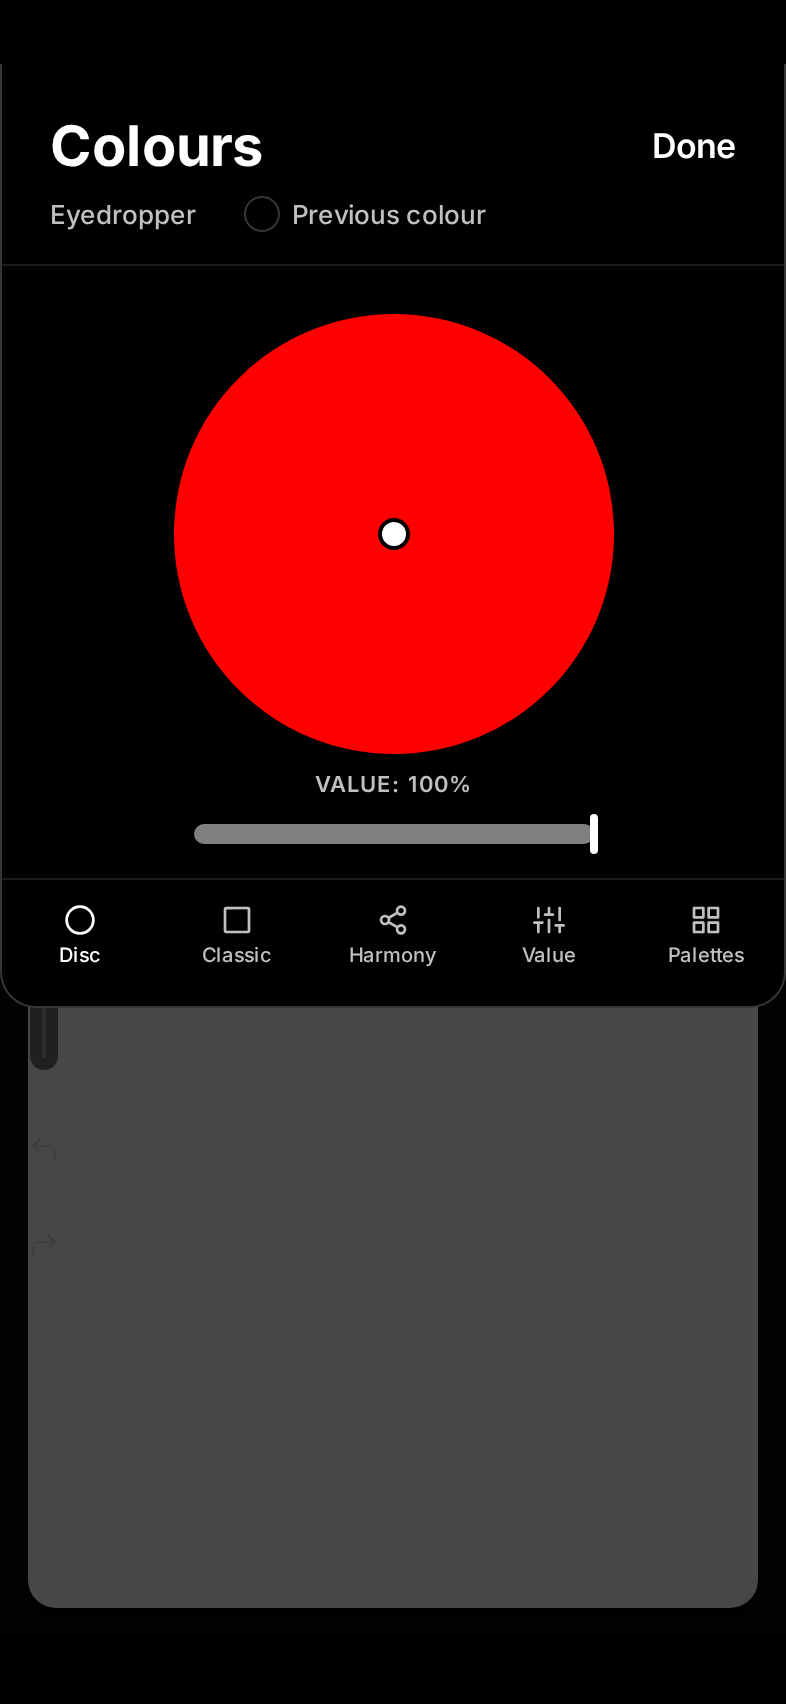
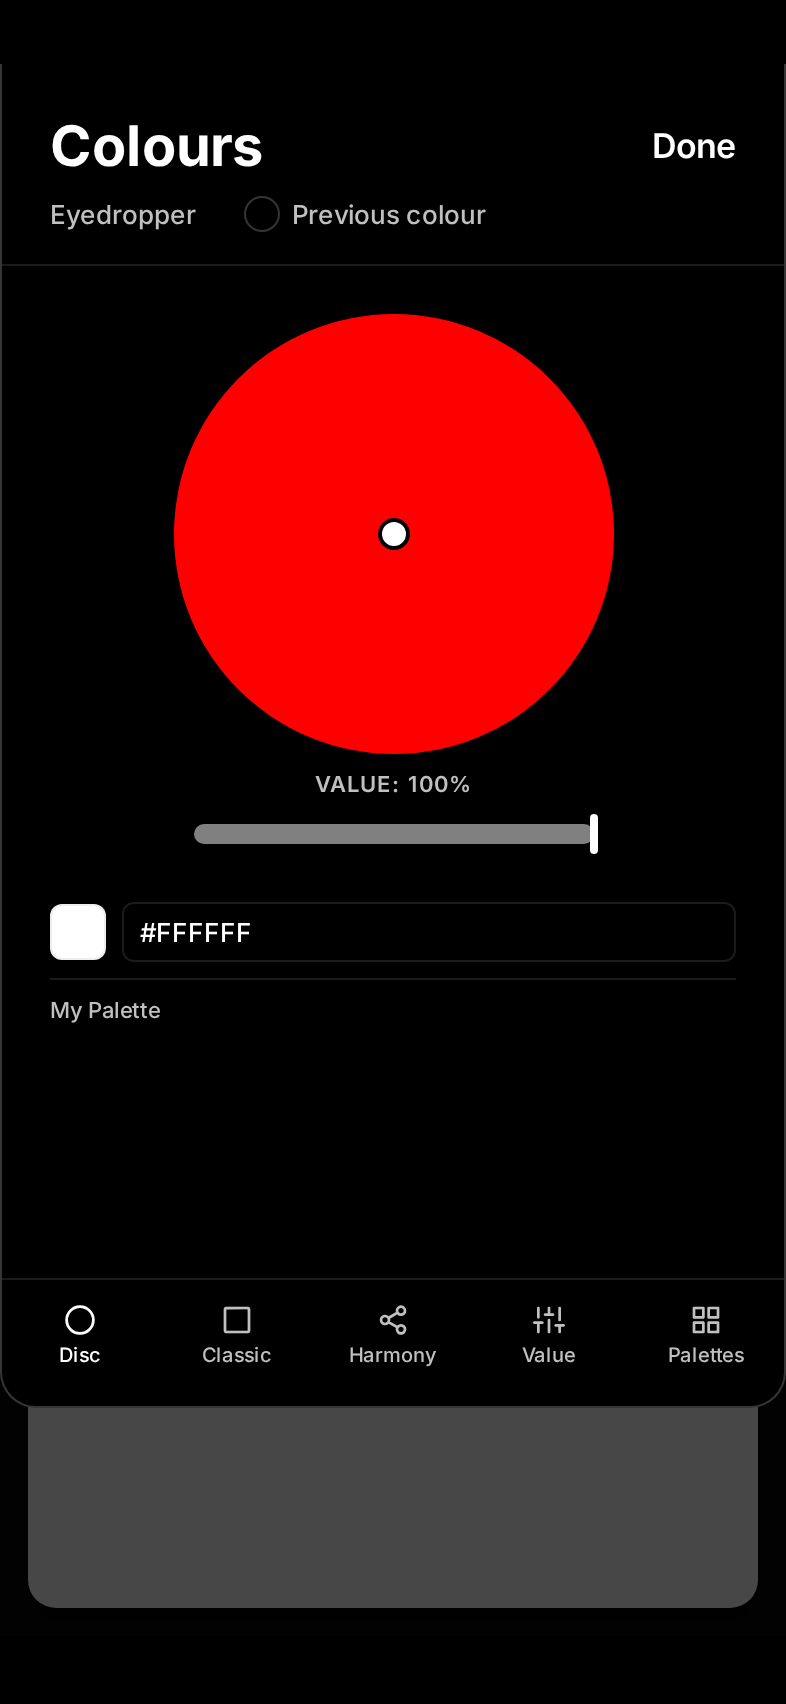
Fix Colours sheet clipping bug + add sibling-overlap text-fit guard
Harmony tab: harmony markers were positioned using the CURRENT colour's
saturation, which collapses to the disc's centre at s=0 (e.g. the picker's
default black) — stacking every marker on top of each other regardless of
the selected rule, and making tapping one a no-op since all harmony hexes
also degenerated to the same grey. Markers now sit at a fixed outer radius
and floor s/v so they're always distinct, clickable, and meaningfully
different from the current colour.

Classic tab (found via the mandatory zoomed-screenshot pass): the hex
input row and recent-colours strip were rendering clipped behind the
sheet's own fixed bottom tab bar. Root cause: the sheet's height: '82%'
has no definite ancestor to resolve against on web (the Modal wrapper View
only had paddingTop, no flex/height), so it silently fell back to a
too-small content-based height instead of 82% of the viewport, leaving the
ScrollView too short to lay its last row out above the tab bar. Fixed by
giving that wrapper flex: 1.

Also strengthens e2e/lib/textFitCheck.mjs with a new findSiblingOverlap
check: the existing findBoxOverflow only compares an element against its
own parent, so it never would have caught this bug (a sibling, not a
containment, overflow). assertNoTextOrBoxOverflow now runs it too, and the
Colours spec now calls it after EVERY tab switch instead of only once at
the end.
Claude-Session: https://claude.ai/code/session_01DgPbifK2VyRteBvyYrhXzg

Changed region(s): [[0.0, 0.5288, 1.0, 0.8398], [0.0, 0.5599, 0.0305, 0.591]]

diff --git a/artifacts/mobile/components/design-studio/ColorPicker.tsx b/artifacts/mobile/components/design-studio/ColorPicker.tsx
@@ -259,10 +259,24 @@ export default function ColorPicker(props: ColorPickerProps) {
               >
                 <View style={[s.discKnob, { left: knobX - 8, top: knobY - 8, backgroundColor: color, borderColor: knobColor }]} />
                 {harmonyHues.map((h, i) => {
-                  const hp = hsToDiscPoint(h, hsv.s);
+                  // Markers sit at a fixed outer radius, independent of the
+                  // CURRENT colour's saturation: at s=0 (e.g. the picker's
+                  // default black) every hue maps to the disc's centre, so
+                  // tying marker position to hsv.s stacks all of them on top
+                  // of each other — invisible and unclickable. A fixed
+                  // radius keeps them spread around the wheel at the right
+                  // hue angle no matter how desaturated the base colour is.
+                  const hp = hsToDiscPoint(h, 0.85);
                   const hx = DISC_RADIUS + hp.x * DISC_RADIUS;
                   const hy = DISC_RADIUS + hp.y * DISC_RADIUS;
-                  const hHex = hsvToHex({ h, s: hsv.s, v: hsv.v });
+                  // Same reasoning as the marker position: at s=0 (grayscale
+                  // base colours, e.g. the default black) every harmony hue
+                  // would render — and apply — as the exact same grey,
+                  // making the tab a no-op. Floor s/v so a harmony swatch is
+                  // always a real, distinguishable colour to pick, while
+                  // still respecting the user's own s/v once they're
+                  // non-degenerate.
+                  const hHex = hsvToHex({ h, s: Math.max(hsv.s, 0.6), v: Math.max(hsv.v, 0.6) });
                   return (
                     <TouchableOpacity
                       key={i}

diff --git a/artifacts/mobile/app/design-canvas.tsx b/artifacts/mobile/app/design-canvas.tsx
@@ -5569,7 +5569,16 @@ const styles = StyleSheet.create({
   // bar — Procreate's own placement — rather than sitting at the bottom
   // like the other sheets.
   layersModalOverlay: { flex: 1, backgroundColor: OVERLAY, justifyContent: 'flex-start' },
-  layersModalSheetWrap: { paddingTop: Platform.OS === 'ios' ? 54 : 32 },
+  // flex: 1 here (not just paddingTop) matters on web: a sheet inside this
+  // wrap (e.g. the Colours picker) sizes itself with a percentage height
+  // ('82%'). RNW's flexbox only resolves a percentage height against an
+  // ancestor with a DEFINITE height — without flex: 1 this wrap has none
+  // (justifyContent: 'flex-start' on the parent means it shrinks to content
+  // instead of stretching), so the percentage silently falls back to the
+  // sheet's own content size. That under-sized the Colours sheet enough for
+  // its last scrollable row to render behind the fixed tab bar below it — a
+  // real, user-visible clipping bug this rebuild's zoomed screenshot caught.
+  layersModalSheetWrap: { flex: 1, paddingTop: Platform.OS === 'ios' ? 54 : 32 },
   sheet: {
     backgroundColor: SURFACE,
     borderTopLeftRadius: RADIUS.xl, borderTopRightRadius: RADIUS.xl,

diff --git a/artifacts/mobile/e2e/design-colours.spec.ts b/artifacts/mobile/e2e/design-colours.spec.ts
@@ -81,12 +81,17 @@ test('Colours sheet renders as a full-height sheet with all 5 real tabs, no over
   expect(box!.width).toBeGreaterThan(300);
   expect(box!.height).toBeGreaterThan(400);
 
-  // All 5 real tabs exist and are switchable.
+  // All 5 real tabs exist and are switchable. Checked for overflow/overlap
+  // on EACH tab, not just the one left showing at the end — a per-tab
+  // layout bug (like the hex-row-behind-the-tab-bar clip this check caught
+  // on Classic) only shows up while that specific tab's content is
+  // mounted.
   for (const tab of ['disc', 'classic', 'harmony', 'value', 'palettes']) {
     const tabBtn = page.locator(`[data-testid="color-tab-${tab}"]`);
     await expect(tabBtn).toBeVisible();
     await tabBtn.click();
     await page.waitForTimeout(150);
+    await assertNoTextOrBoxOverflow(page, '[data-testid="color-picker"]');
   }
 
   await page.locator('[data-testid="color-tab-disc"]').click();
